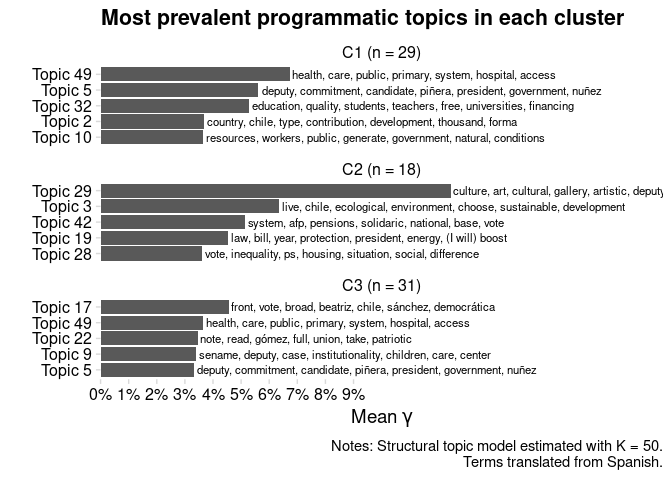
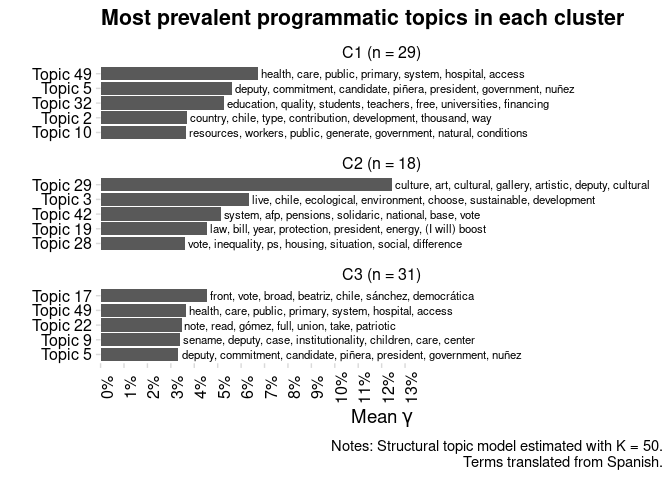
Correct small issue with topics plot

Changed region(s): [[0.0312, 0.125, 1.0, 0.8438]]

diff --git a/05_estimate_stm.md b/05_estimate_stm.md
@@ -270,7 +270,7 @@ topics_by_cluster$terms_eng <- recode(topics_by_cluster$terms,
   "salud, atención, pública, primaria, sistema, hospital, acceso" = "health, care, public, primary, system, hospital, access",
   "diputado, compromiso, candidato, piñera, presidente, gobierno, nuñez" = "deputy, commitment, candidate, piñera, president, government, nuñez",
   "educación, calidad, estudiantes, profesores, gratuita, universidades, financiamiento" = "education, quality, students, teachers, free, universities, financing",
-  "país, chile, tipo, aporte, desarrollo, mil, forma" = "country, chile, type, contribution, development, thousand, forma",
+  "país, chile, tipo, aporte, desarrollo, mil, forma" = "country, chile, type, contribution, development, thousand, way",
   "recursos, trabajadores, públicos, generar, gobierno, naturales, condiciones" = "resources, workers, public, generate, government, natural, conditions",
   "cultura, arte, cultural, galería, artísticas, diputado, culturales" = "culture, art, cultural, gallery, artistic, deputy, cultural",
   "vivir, chile, ecológico, ambiente, elige, sustentable, desarrollo" = "live, chile, ecological, environment, choose, sustainable, development",
@@ -294,12 +294,12 @@ p_topics_by_cluster <- ggplot(
   geom_text(hjust = -.01, nudge_y = 0.0005, size = 3) +
   facet_wrap(~cluster_sel, nrow = 3, scales = "free_y") +
   scale_x_continuous(expand = c(0,0),
-                     limits = c(0, 0.2),
-                     breaks = seq(0, 0.09, by = 0.01),
+                     limits = c(0, 0.24),
+                     breaks = seq(0, 0.13, by = 0.01),
                      labels = scales::percent_format(accuracy = 1)) +
   scale_y_reordered() +
   cowplot::theme_minimal_grid() +
-  theme(panel.grid = element_blank()) + 
+  theme(panel.grid = element_blank(), axis.text.x = element_text(angle = 90)) + 
   labs(x = expression(paste("Mean ", gamma)),
        y = "",
        title = "Most prevalent programmatic topics in each cluster",
